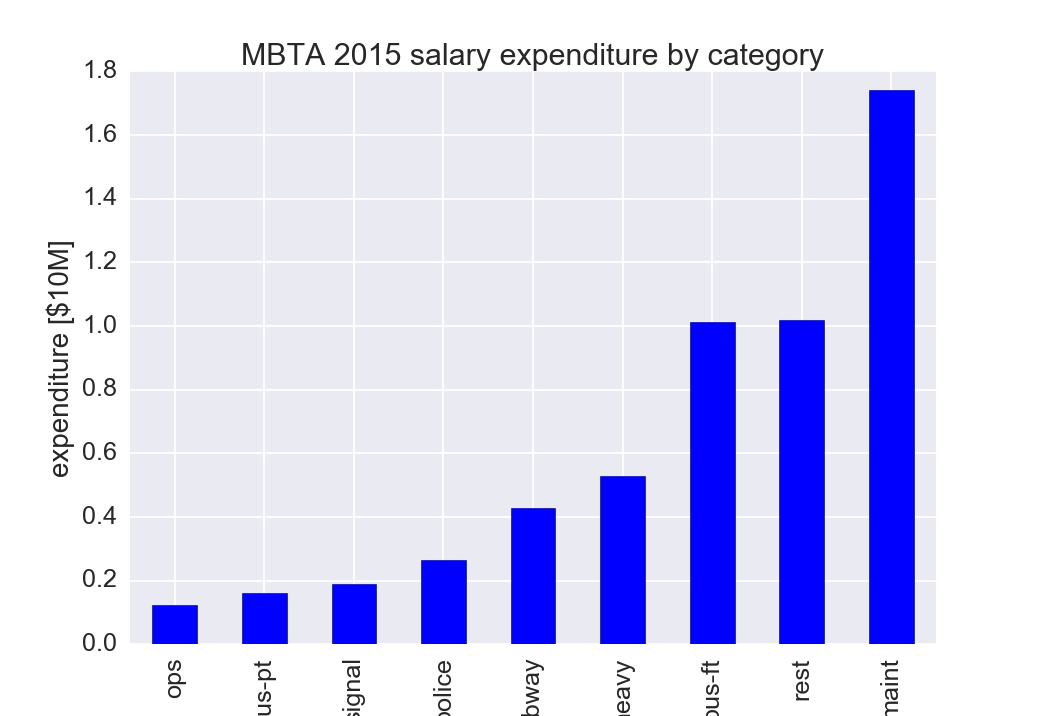
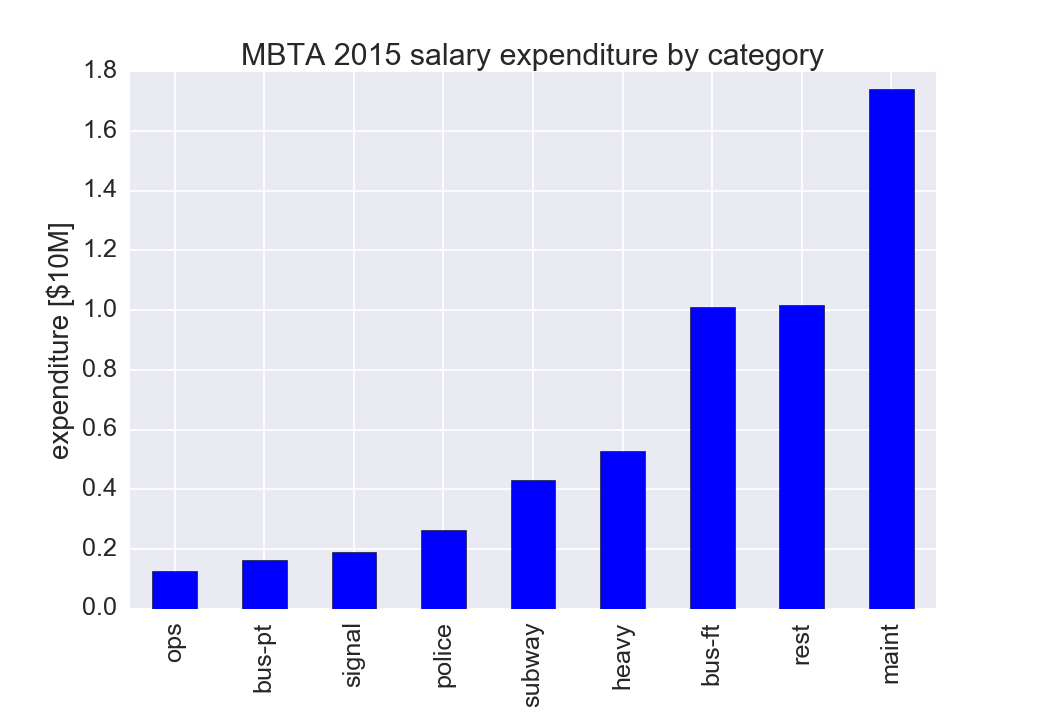
add tabulated data

diff --git a/salary.py b/salary.py
@@ -94,10 +94,12 @@ def parsefilt(fn,year,lowerthres):
     except KeyError:
         print('\nhighest earning MBTA staff ${:.0f} in {} was a {}'.format(maxsalary,year,maxearner['Title']))
 #%%
-    ax=figure().gca()
+    fg=figure()
+    ax=fg.gca()
     (st.ix[:-1,'subtot']/1e8).sort_values().plot(kind='bar')
     ax.set_ylabel('expenditure [$10M]')
     ax.set_title('MBTA {} salary expenditure by category'.format(year))
+    fg.subplots_adjust(bottom=0.15)
 
     return st,data,{'maint':maint,'police':police,'signals':signals}
 

diff --git a/README.rst b/README.rst
@@ -32,13 +32,32 @@ We currently have 2013-2015 salary data. Other trend analyses may find it useful
 
     python salary.py EMP-2015-Gross-Bpay-Ovt.xlsx 2015
 
+yields plots and the output:
+
+Highest earning MBTA staff $256080 in 2015 was a Foreperson,Section, including estimated $171257 overtime.
+
+======  ======  ======  ======  ======  ====
+type       max  median    90th  subtot   num
+======  ======  ======  ======  ======  ====
+signal  182049  117083  151384   2e+07   157
+maint   256080   97309  134881   2e+08  1743
+ops     145266   96538  113948   1e+07   128
+police  203553   93684  136959   3e+07   271
+heavy   178438   80498  103964   5e+07   678
+bus-ft  120281   75542   91287   1e+08  1304
+subway  158950   73563   94860   4e+07   628
+bus-pt   54738   40934   49124   2e+07   410
+rest    231589   87497  122225   1e+08  1149
+all     256080   82319  118860   5e+08  6468
+======  ======  ======  ======  ======  ====
+
 2014 MBTA Salary
 ----------------
 ::
     
     python salary.py Wages2014.txt 2014
 
-yields the output:
+yields plots and the output:
 
 Highest earning MBTA staff $235194 in 2014 was a Technician,Power Equip.
 
@@ -63,7 +82,24 @@ MBTA 2013 Salary
     
     python salary.py "FOIA 14-11 final.txt" 2013
 
+yields plots and the output:
 
+Highest earning MBTA staff $238770 in 2013 was a General Manager
+
+======  ======  ======  ======  ======  ====
+type       max  median    90th  subtot   num
+======  ======  ======  ======  ======  ====
+signal  164161  109078  122121   1e+07   139
+police  205400  108173  162941   3e+07   245
+maint   209113   87132  113655   1e+08  1705
+ops     127287   82337   98121   1e+07   131
+heavy   154684   72266   99978   5e+07   654
+bus-ft  192440   69327   87284   9e+07  1279
+subway  133214   66729   87589   3e+07   517
+bus-pt   53263   34434   42247   1e+07   358
+rest    238770   78120  112847   9e+07  1098
+all     238770   75818  108951   5e+08  6126
+======  ======  ======  ======  ======  ====
 
 Obtaining Salary Data
 =====================
